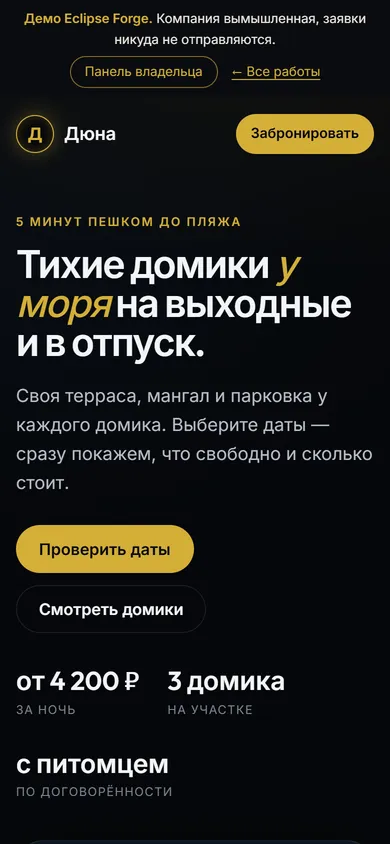
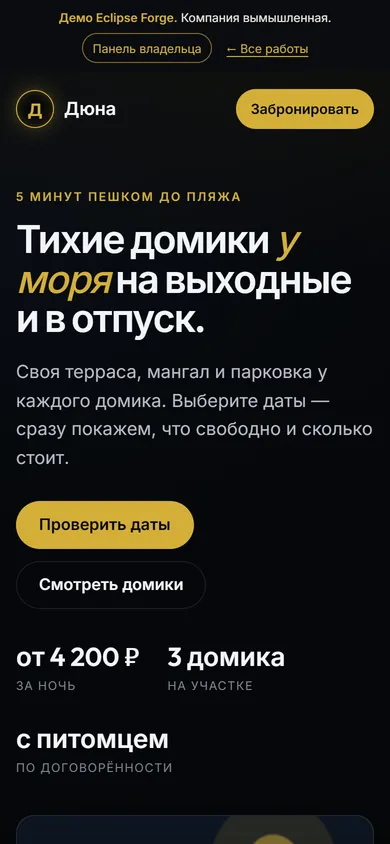
feat(demos): первый экран демо — живые элементы интерфейса вместо иллюстраций
- «Дюна»: карточка домика с ценой за даты, календарь занятости, уведомление о брони.
- «Отвес»: смета по позициям с итогом «в договоре», фотоотчёт прораба с прогрессом,
  сообщение прораба в Telegram.
- «Северный бокс»: сетка свободных окон, карточка подтверждённой записи, напоминание.
- Карточки не перекрывают текст друг друга; на телефоне идут столбиком.
- Плашка «Демо» на телефоне короче.
- Превью демо в блоке «Работы» пересняты.

diff --git a/public/demos/assets/demo.css b/public/demos/assets/demo.css
@@ -470,3 +470,97 @@ button, input, select, textarea { font: inherit; color: inherit; }
   .site-head .btn { white-space: nowrap; padding: 0 14px; }
   .brand-sub { display: none; }
 }
+
+/* ── Hero UI composition (replaces flat illustration) ── */
+.stack {
+  position: relative;
+  min-height: var(--stack-h, 500px);
+  border-radius: calc(var(--radius) + 10px);
+  background:
+    radial-gradient(60% 55% at 70% 30%, rgba(212, 175, 55, 0.16), transparent 70%),
+    radial-gradient(50% 50% at 15% 85%, rgba(107, 163, 255, 0.06), transparent 70%);
+}
+.ui {
+  position: absolute;
+  padding: 18px;
+  border: 1px solid var(--line);
+  border-radius: 18px;
+  background: #0e131b;
+  box-shadow: 0 30px 70px rgba(0, 0, 0, 0.55), 0 0 0 1px rgba(212, 175, 55, 0.08) inset;
+  font-size: 14px;
+}
+.ui--main { top: 0; right: 0; width: 62%; }
+.ui--side { left: 0; top: var(--side-top, 24%); width: 40%; z-index: 1; }
+.ui--toast {
+  right: 6%;
+  bottom: 0;
+  width: 58%;
+  padding: 12px 14px;
+  border-color: rgba(106, 179, 243, 0.25);
+  background: rgba(23, 33, 43, 0.97);
+}
+.ui-label { margin: 0 0 6px; font-size: 11px; font-weight: 600; letter-spacing: 0.12em; text-transform: uppercase; color: var(--ink-3); }
+.ui-title { margin: 0; font: 600 18px/1.25 var(--font-display); color: var(--ink); }
+.ui-muted { color: var(--ink-3); font-size: 13px; }
+.ui-row { display: flex; align-items: center; justify-content: space-between; gap: 10px; padding: 7px 0; border-bottom: 1px solid var(--line); }
+.ui-row:last-child { border-bottom: 0; }
+.ui-row b { color: var(--ink); font-weight: 600; white-space: nowrap; }
+.ui-row--total { margin-top: 6px; padding-top: 10px; border-top: 1px solid rgba(212, 175, 55, 0.4); border-bottom: 0; }
+.ui-row--total b { color: var(--accent); font: 600 20px/1 var(--font-display); }
+.ui-pill { display: inline-flex; align-items: center; gap: 6px; padding: 3px 10px; border-radius: 999px; font-size: 12px; font-weight: 600; background: var(--accent-soft); color: var(--accent); }
+.ui-pill--ok { background: rgba(143, 214, 168, 0.12); color: var(--ok); }
+.ui-btn { display: flex; align-items: center; justify-content: center; min-height: 40px; margin-top: 12px; border-radius: 999px; background: var(--accent); color: var(--accent-ink); font-weight: 600; font-size: 14px; }
+.ui-scene {
+  position: relative;
+  height: 150px;
+  margin: -18px -18px 14px;
+  overflow: hidden;
+  border-radius: 18px 18px 0 0;
+  background: var(--scene, linear-gradient(180deg, #0d1522, #05070a));
+}
+.ui-tg-from { margin-bottom: 3px; font-size: 12px; font-weight: 600; color: #6ab3f3; }
+.ui-tg-text { color: #e8e6e0; font-size: 13px; line-height: 1.45; }
+
+.cal { display: grid; grid-template-columns: repeat(7, 1fr); gap: 4px; margin-top: 8px; text-align: center; font-size: 12px; }
+.cal span { padding: 5px 0; border-radius: 7px; color: var(--ink-2); }
+.cal .h { color: var(--ink-3); font-size: 10px; letter-spacing: 0.06em; }
+.cal .busy { color: var(--ink-3); text-decoration: line-through; opacity: 0.5; }
+.cal .sel { background: var(--accent-soft); color: var(--accent); border-radius: 0; }
+.cal .sel-a { background: var(--accent); color: var(--accent-ink); border-radius: 7px 0 0 7px; font-weight: 600; }
+.cal .sel-b { background: var(--accent); color: var(--accent-ink); border-radius: 0 7px 7px 0; font-weight: 600; }
+
+.thumbs { display: grid; grid-template-columns: repeat(3, 1fr); gap: 6px; margin: 10px 0; }
+.thumbs i {
+  aspect-ratio: 1;
+  border-radius: 8px;
+  background:
+    linear-gradient(90deg, rgba(212, 175, 55, 0.18) 1px, transparent 1px) 0 0 / 12px 12px,
+    linear-gradient(0deg, rgba(212, 175, 55, 0.18) 1px, transparent 1px) 0 0 / 12px 12px,
+    linear-gradient(160deg, #1a2230, #0b0f15);
+}
+.thumbs i:nth-child(2) { background: linear-gradient(160deg, #3a3020, #14110b); }
+.thumbs i:nth-child(3) { background: radial-gradient(circle at 40% 40%, rgba(212, 175, 55, 0.4), transparent 50%), linear-gradient(160deg, #1d2633, #0b0f15); }
+.bar { height: 6px; margin-top: 8px; border-radius: 999px; background: rgba(255, 255, 255, 0.08); overflow: hidden; }
+.bar i { display: block; height: 100%; border-radius: inherit; background: linear-gradient(90deg, #8a6d1f, #d4af37); }
+
+.mini-slots { display: grid; grid-template-columns: repeat(3, 1fr); gap: 6px; margin-top: 10px; }
+.mini-slots span { padding: 8px 0; border: 1px solid var(--line); border-radius: 9px; text-align: center; font-size: 13px; color: var(--ink-2); }
+.mini-slots .busy { text-decoration: line-through; opacity: 0.4; }
+.mini-slots .on { background: var(--accent); border-color: var(--accent); color: var(--accent-ink); font-weight: 600; }
+.day-tabs { display: flex; gap: 6px; margin-top: 10px; }
+.day-tabs span { flex: 1; padding: 6px 0; border-radius: 9px; text-align: center; font-size: 12px; color: var(--ink-3); border: 1px solid var(--line); }
+.day-tabs .on { color: var(--accent); border-color: rgba(212, 175, 55, 0.5); background: var(--accent-soft); }
+
+@media (max-width: 560px) {
+  .stack { display: grid; gap: 12px; min-height: 0; background: none; }
+  .ui { position: static; width: auto; }
+  .ui--side { display: none; }
+}
+
+.ribbon-short { display: none; }
+@media (max-width: 640px) {
+  .demo-ribbon { font-size: 12px; padding: 8px 12px; }
+  .ribbon-long { display: none; }
+  .ribbon-short { display: inline; }
+  .demo-ribbon button { min-height: 30px; padding: 0 10px; }
+}

diff --git a/public/demos/guest-house/index.html b/public/demos/guest-house/index.html
@@ -10,19 +10,19 @@
   <link rel="icon" href="/favicon.svg" type="image/svg+xml">
   <link rel="stylesheet" href="/demos/assets/demo.css">
   <style>
-    .plate { --plate:
+    .ui-scene { --scene:
       radial-gradient(circle at 72% 30%, rgba(212, 175, 55, 0.55) 0 9%, rgba(212, 175, 55, 0.12) 10% 22%, transparent 23%),
       linear-gradient(180deg, transparent 0 58%, rgba(212, 175, 55, 0.08) 58% 59%, transparent 59%),
       repeating-linear-gradient(180deg, transparent 0 18px, rgba(255, 255, 255, 0.025) 18px 19px),
       linear-gradient(180deg, #0d1522 0%, #05070a 100%); }
-    .house { position: absolute; bottom: 0; width: 26%; aspect-ratio: 1 / 1.05; background: linear-gradient(180deg, #151b25, #0b0f15); border: 1px solid rgba(212, 175, 55, 0.35); clip-path: polygon(50% 0, 100% 38%, 100% 100%, 0 100%, 0 38%); }
+    .house { position: absolute; bottom: 0; width: 22%; aspect-ratio: 1 / 1.05; background: linear-gradient(180deg, #151b25, #0b0f15); border: 1px solid rgba(212, 175, 55, 0.35); clip-path: polygon(50% 0, 100% 38%, 100% 100%, 0 100%, 0 38%); }
     .house::after { content: ''; position: absolute; left: 38%; bottom: 0; width: 24%; height: 36%; background: rgba(212, 175, 55, 0.55); box-shadow: 0 0 30px rgba(212, 175, 55, 0.6); }
     .house--1 { left: 8%; } .house--2 { left: 38%; width: 22%; } .house--3 { left: 66%; width: 24%; }
   </style>
 </head>
 <body data-demo="guest-house">
   <div class="demo-ribbon">
-    <span><b>Демо Eclipse Forge.</b> Компания вымышленная, заявки никуда не отправляются.</span>
+    <span><b>Демо Eclipse Forge.</b><span class="ribbon-long"> Компания вымышленная, заявки никуда не отправляются.</span><span class="ribbon-short"> Компания вымышленная.</span></span>
     <button type="button" data-open-owner>Панель владельца</button>
     <a href="/#works">← Все работы</a>
   </div>
@@ -58,9 +58,27 @@
             <li><b>с питомцем</b><span>по договорённости</span></li>
           </ul>
         </div>
-        <div class="plate" role="img" aria-label="Иллюстрация: три домика на закате">
-          <span class="house house--1"></span><span class="house house--2"></span><span class="house house--3"></span>
-          <span class="plate-caption">Заезд с 14:00 · выезд до 12:00</span>
+        <div class="stack" style="--stack-h:510px;--side-top:30%" role="img" aria-label="Пример интерфейса: карточка домика, календарь занятости и уведомление о брони">
+          <div class="ui ui--main" aria-hidden="true">
+            <div class="ui-scene"><span class="house house--1"></span><span class="house house--2"></span><span class="house house--3"></span></div>
+            <div class="ui-row" style="border:0;padding-top:0"><p class="ui-title">Дом «Маяк»</p><span class="ui-pill ui-pill--ok">Свободно</span></div>
+            <p class="ui-muted" style="margin:2px 0 8px">до 6 гостей · сауна · две спальни · парковка</p>
+            <div class="ui-row"><span class="ui-muted">23–26 ноября · 3 ночи</span><b>9 500 ₽ × 3</b></div>
+            <div class="ui-row ui-row--total"><span>Итого</span><b>28 500 ₽</b></div>
+            <span class="ui-btn">Забронировать</span>
+          </div>
+          <div class="ui ui--side" aria-hidden="true">
+            <p class="ui-label">Ноябрь · занятость</p>
+            <div class="cal">
+              <span class="h">ПН</span><span class="h">ВТ</span><span class="h">СР</span><span class="h">ЧТ</span><span class="h">ПТ</span><span class="h">СБ</span><span class="h">ВС</span>
+              <span>16</span><span>17</span><span class="busy">18</span><span class="busy">19</span><span>20</span><span class="busy">21</span><span class="busy">22</span>
+              <span class="sel-a">23</span><span class="sel">24</span><span class="sel">25</span><span class="sel-b">26</span><span>27</span><span>28</span><span>29</span>
+            </div>
+          </div>
+          <div class="ui ui--toast" aria-hidden="true">
+            <div class="ui-tg-from">Telegram · бот брони</div>
+            <div class="ui-tg-text">🔔 Новая бронь: Ольга, «Залив», 3 ночи — 17 700 ₽. Перезвонить до 17:20.</div>
+          </div>
         </div>
       </section>
 

diff --git a/public/demos/renovation/index.html b/public/demos/renovation/index.html
@@ -25,7 +25,7 @@
 </head>
 <body data-demo="renovation">
   <div class="demo-ribbon">
-    <span><b>Демо Eclipse Forge.</b> Компания вымышленная, заявки никуда не отправляются.</span>
+    <span><b>Демо Eclipse Forge.</b><span class="ribbon-long"> Компания вымышленная, заявки никуда не отправляются.</span><span class="ribbon-short"> Компания вымышленная.</span></span>
     <button type="button" data-open-owner>Панель владельца</button>
     <a href="/#works">← Все работы</a>
   </div>
@@ -61,10 +61,26 @@
             <li><b>каждый день</b><span>фотоотчёт</span></li>
           </ul>
         </div>
-        <div class="plate" role="img" aria-label="Иллюстрация: план квартиры с размерами">
-          <span class="dim dim--w">7 200 мм</span><span class="dim dim--h">4 800</span>
-          <span class="plan"></span>
-          <span class="plate-caption">Смета через 2 дня после замера</span>
+        <div class="stack" style="--stack-h:480px;--side-top:40%" role="img" aria-label="Пример интерфейса: смета, фотоотчёт прораба и сообщение в Telegram">
+          <div class="ui ui--main" aria-hidden="true">
+            <div class="ui-row" style="border:0;padding-top:0"><div><p class="ui-label">Смета № 0457 · 62 м²</p><p class="ui-title">Капитальный ремонт</p></div><span class="ui-pill">В договоре</span></div>
+            <div class="ui-row"><span>Демонтаж и вывоз</span><b>38 000 ₽</b></div>
+            <div class="ui-row"><span>Электрика, 46 точек</span><b>124 000 ₽</b></div>
+            <div class="ui-row"><span>Стяжка и выравнивание</span><b>96 000 ₽</b></div>
+            <div class="ui-row"><span>Санузел под ключ</span><b>180 000 ₽</b></div>
+            <div class="ui-row"><span>Отделка стен и потолков</span><b>169 600 ₽</b></div>
+            <div class="ui-row ui-row--total"><span>Итого работы</span><b>607 600 ₽</b></div>
+          </div>
+          <div class="ui ui--side" aria-hidden="true">
+            <p class="ui-label">Фотоотчёт · день 12</p>
+            <div class="thumbs"><i></i><i></i><i></i></div>
+            <div class="ui-row" style="border:0;padding:0"><span class="ui-muted">Готово</span><b>64%</b></div>
+            <div class="bar"><i style="width:64%"></i></div>
+          </div>
+          <div class="ui ui--toast" aria-hidden="true">
+            <div class="ui-tg-from">Telegram · прораб Сергей</div>
+            <div class="ui-tg-text">Стяжка в ванной готова, фото в отчёте. Завтра начинаем плитку.</div>
+          </div>
         </div>
       </section>
 

diff --git a/public/demos/auto-service/index.html b/public/demos/auto-service/index.html
@@ -23,7 +23,7 @@
 </head>
 <body data-demo="auto-service">
   <div class="demo-ribbon">
-    <span><b>Демо Eclipse Forge.</b> Компания вымышленная, заявки никуда не отправляются.</span>
+    <span><b>Демо Eclipse Forge.</b><span class="ribbon-long"> Компания вымышленная, заявки никуда не отправляются.</span><span class="ribbon-short"> Компания вымышленная.</span></span>
     <button type="button" data-open-owner>Панель владельца</button>
     <a href="/#works">← Все работы</a>
   </div>
@@ -59,9 +59,27 @@
             <li><b>6 месяцев</b><span>гарантия на работы</span></li>
           </ul>
         </div>
-        <div class="plate" role="img" aria-label="Иллюстрация: два колеса">
-          <span class="wheel wheel--a"></span><span class="wheel wheel--b"></span>
-          <span class="plate-caption">Ежедневно 9:00–21:00</span>
+        <div class="stack" style="--stack-h:420px;--side-top:34%" role="img" aria-label="Пример интерфейса: онлайн-запись, карточка автомобиля и напоминание">
+          <div class="ui ui--main" aria-hidden="true">
+            <div class="ui-row" style="border:0;padding-top:0"><div><p class="ui-label">Онлайн-запись</p><p class="ui-title">Шиномонтаж · от 1 900 ₽</p></div><span class="ui-pill">4 поста</span></div>
+            <div class="day-tabs"><span>вт 17</span><span class="on">ср 18</span><span>чт 19</span></div>
+            <div class="mini-slots">
+              <span class="busy">9:00</span><span>11:00</span><span class="on">13:00</span>
+              <span>15:00</span><span class="busy">17:00</span><span>19:00</span>
+            </div>
+            <span class="ui-btn">Записаться на ср, 13:00</span>
+          </div>
+          <div class="ui ui--side" aria-hidden="true">
+            <p class="ui-label">Запись подтверждена</p>
+            <p class="ui-title" style="font-size:16px">Kia Rio 2019</p>
+            <div class="ui-row"><span class="ui-muted">Когда</span><b>ср, 13:00</b></div>
+            <div class="ui-row"><span class="ui-muted">Пост</span><b>№ 2</b></div>
+            <span class="ui-pill ui-pill--ok" style="margin-top:8px">✓ Подтверждено</span>
+          </div>
+          <div class="ui ui--toast" aria-hidden="true">
+            <div class="ui-tg-from">Telegram · Северный бокс</div>
+            <div class="ui-tg-text">Напоминаем: завтра в 13:00 шиномонтаж. Ответьте «перенести», если планы поменялись.</div>
+          </div>
         </div>
       </section>
 
